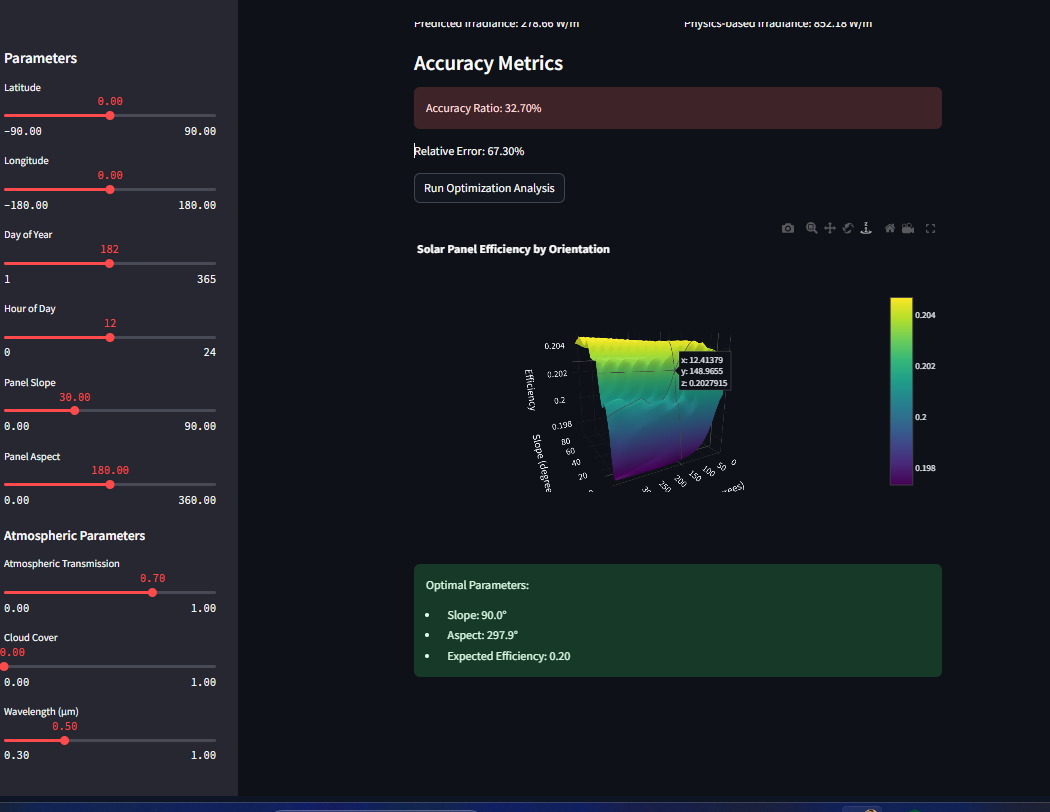
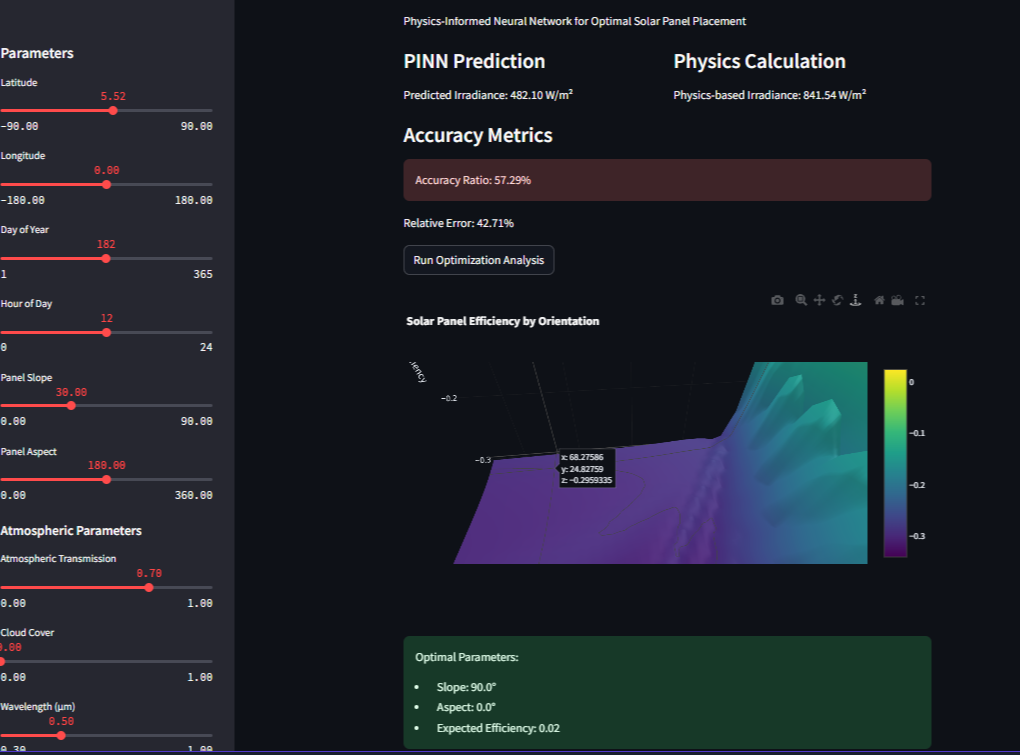
Restored to '6be464c0a1635034b252adc4efe4b4182d4249dd'
Replit-Restored-To:6be464c0a1635034b252adc4efe4b4182d4249dd

diff --git a/models/pinn_model.py b/models/pinn_model.py
@@ -23,17 +23,9 @@ class SolarPINN(nn.Module):
         self.temp_coeff = 0.004  # Temperature coefficient (/°C)
         
     def forward(self, x):
-        # Scale sigmoid output to efficiency range (0.15-0.25)
-        base_output = torch.sigmoid(self.net(x))
-        return 0.15 + (0.25 - 0.15) * base_output
+        # Use sigmoid instead of tanh to ensure output is between 0 and 1
+        return torch.sigmoid(self.net(x))
     
-    def get_training_progress(self):
-        # Track training progress (0 to 1)
-        if not hasattr(self, 'training_steps'):
-            self.training_steps = 0
-        self.training_steps += 1
-        return min(self.training_steps / 5000.0, 1.0)  # Assume convergence at 5000 steps
-        
     def solar_declination(self, time):
         """Calculate solar declination angle (δ)"""
         day_number = (time / 24.0 * 365).clamp(0, 365)
@@ -153,29 +145,26 @@ class SolarPINN(nn.Module):
         boundary_residual = torch.relu(-y_pred)  # Non-negative constraint
         max_irradiance_residual = torch.relu(y_pred - self.solar_constant)  # Maximum limit
         
-        # Adjust efficiency constraint weights dynamically
-        efficiency_violation = torch.mean(torch.relu(y_pred - 0.25) + torch.relu(0.15 - y_pred))
-        efficiency_weight = 5.0 * torch.exp(-efficiency_violation)
-        
-        # Strengthen physics-based accuracy
-        physics_weight = 0.6 * (1 - torch.exp(-physics_residual.abs().mean()))
+        # Dynamic weighting based on training progress
         spatial_weight = 0.2 * torch.exp(-conservation_residual.abs().mean())
         temporal_weight = 0.2 * torch.exp(-temporal_residual.abs().mean())
+        physics_weight = 0.3 * (1 - torch.exp(-physics_residual.abs().mean()))
+        boundary_weight = 0.15
+        conservation_weight = 0.15
+
+        # Add stronger non-negative constraint
+        non_negative_penalty = torch.mean(torch.relu(-y_pred)) * 10.0
         
-        # Dynamic weighting for efficiency constraints
-        efficiency_range_penalty = (
-            efficiency_weight * torch.mean(torch.relu(y_pred - 0.25)) +
-            efficiency_weight * torch.mean(torch.relu(0.15 - y_pred))
-        )
+        # Add realistic efficiency range constraint (typical solar panel range: 0.15-0.25)
+        efficiency_range_penalty = torch.mean(torch.relu(y_pred - 0.25)) * 5.0
         
-        # Add curriculum learning for better convergence
-        training_progress = self.get_training_progress()
-        physics_weight *= (1.0 - np.exp(-5 * training_progress))
-        
-        # Combine residuals with dynamic weights
-        total_residual = (spatial_weight * spatial_residual +
-                         temporal_weight * temporal_residual +
+        # Combine residuals with dynamic weights and additional constraints
+        total_residual = (spatial_weight * spatial_residual + 
+                         temporal_weight * temporal_residual + 
                          physics_weight * physics_residual**2 +
+                         boundary_weight * (boundary_residual + max_irradiance_residual) +
+                         conservation_weight * conservation_residual**2 +
+                         non_negative_penalty +
                          efficiency_range_penalty)
         
         # Apply gradient clipping for stability

diff --git a/utils/data_processor.py b/utils/data_processor.py
@@ -65,7 +65,7 @@ class DataProcessor:
     
     def denormalize_predictions(self, predictions, scale_irradiance=True):
         """Convert predictions to physical units"""
-        # Predictions are already in correct efficiency range from model
+        # Predictions are already between 0 and 1 from sigmoid
         if scale_irradiance:
             return predictions * self.irradiance_scale
         return predictions
